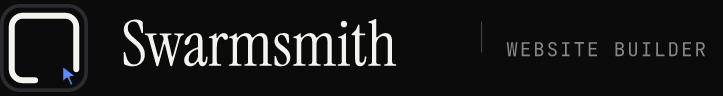
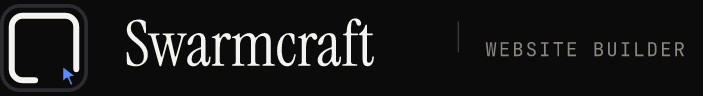
Rename the product: swarmsmith → swarmcraft
Chosen from six rendered options: Swarmcraft. The swarm is the nine cursors,
borrowed on purpose and credited; craft says worked by hand rather than
generated, and it is plainer and harder than -smith. Ninewright was the runner-up.

Everything that carried the name carries the new one: the wordmark and every
generated image (logo, favicon, cards, poster), the README masthead and clone
line, the CI badge and issue links, package.json name/repository/homepage/bugs,
index.html title, the in-app wordmark and the two screens that say the name out
loud, the doctor banner, the temp-dir prefixes, and both planning docs.

Two things are deliberate rather than mechanical:

  · the IndexedDB database is renamed too, and src/lib/db.ts copies anything in
    the old swarmsmith database into the new one on first open — once, without
    deleting the original. A rename that silently loses everyone's saved sites
    is not a rename, it is a data loss bug with a commit message.
  · docs/BUILD-PLAN.md had the name as an open question. It is answered there
    now, with the reasoning and the runner-up, instead of being silently updated.

The GitHub repo itself is still named swarm-builder:  returns
403 Resource not accessible by integration, so the token cannot change repo
settings. The rename needs doing in the GitHub UI; all links in the repo already
point at the new name.

diff --git a/src/lib/db.ts b/src/lib/db.ts
@@ -5,7 +5,13 @@
 import { openDB, type IDBPDatabase } from 'idb';
 import type { SiteSpec, SiteKind } from './spec';
 
-const DB_NAME = 'swarmsmith';
+/* The product was called swarmsmith until it was published. Anyone who ran it
+   under that name has their key and their sites in a database with the old name,
+   so the first open copies them across before the new database is used for real.
+   Cheap now, and the alternative is a user opening the app to find every site
+   they built gone. */
+const DB_NAME = 'swarmcraft';
+const LEGACY_DB_NAME = 'swarmsmith';
 const DB_VERSION = 2;
 
 export type ProjectRow = {
@@ -72,10 +78,54 @@ export function storageAvailable(): boolean {
   }
 }
 
+/**
+ * Copy a database written by the old name into the new one, once.
+ *
+ * `indexedDB.databases()` is not in every browser, so this is best-effort: when
+ * it is missing, or the old database does not exist, it does nothing and the app
+ * starts with the new one empty. It never deletes the old database — a rename
+ * should not be able to destroy the only copy of someone's work.
+ */
+async function migrateLegacyDb(): Promise<void> {
+  try {
+    const list = await indexedDB.databases?.();
+    if (!list?.some((d) => d.name === LEGACY_DB_NAME)) return;
+
+    const marker = `${LEGACY_DB_NAME}:migrated`;
+    if (localStorage.getItem(marker)) return;
+
+    const legacy = await new Promise<IDBDatabase>((ok, no) => {
+      const req = indexedDB.open(LEGACY_DB_NAME);
+      req.onsuccess = () => ok(req.result);
+      req.onerror = () => no(req.error);
+    });
+
+    const target = await openDB<Schema>(DB_NAME, DB_VERSION);
+    for (const name of Array.from(legacy.objectStoreNames) as (keyof Schema)[]) {
+      if (!target.objectStoreNames.contains(name)) continue;
+      const rows = await new Promise<unknown[]>((ok, no) => {
+        const req = legacy.transaction(name, 'readonly').objectStore(name).getAll();
+        req.onsuccess = () => ok(req.result);
+        req.onerror = () => no(req.error);
+      });
+      /* `put`, not `add`: if a row already exists in the new database it wins,
+         because it is the one this version of the app has been writing to. */
+      for (const row of rows) await target.put(name, row as never);
+    }
+    legacy.close();
+    target.close();
+    localStorage.setItem(marker, '1');
+  } catch {
+    /* No migration is better than a broken boot. The new database stands. */
+  }
+}
+
 function db() {
   if (!storageAvailable()) return Promise.reject(new StorageUnavailable());
   if (!dbp) {
-    dbp = openDB<Schema>(DB_NAME, DB_VERSION, {
+    dbp = (async () => {
+      await migrateLegacyDb();
+      return openDB<Schema>(DB_NAME, DB_VERSION, {
       upgrade(d) {
         if (!d.objectStoreNames.contains('settings'))
           d.createObjectStore('settings', { keyPath: 'key' });
@@ -89,7 +139,8 @@ function db() {
           store.createIndex('projectId', 'projectId');
         }
       },
-    });
+      });
+    })();
     // a failed open must not poison every later call
     dbp.catch(() => {
       dbp = null;

diff --git a/src/app/screens/KeyScreen.tsx b/src/app/screens/KeyScreen.tsx
@@ -86,7 +86,7 @@ export default function KeyScreen() {
         <p className="eyebrow">Setup</p>
         <h1>{hasKey ? 'Your key is saved' : 'One key, then it works'}</h1>
         <p>
-          Swarmsmith uses your own Google Gemini API key. It is stored in this browser&rsquo;s
+          Swarmcraft uses your own Google Gemini API key. It is stored in this browser&rsquo;s
           IndexedDB and sent only to Google, from this tab. There is no server in between, because
           there is no server at all.
         </p>

diff --git a/src/app/screens/ProjectsScreen.tsx b/src/app/screens/ProjectsScreen.tsx
@@ -58,7 +58,7 @@ export default function ProjectsScreen() {
           <p className="eyebrow">Nothing built yet</p>
           <h1>No sites yet</h1>
           <p>
-            Swarmsmith builds one page at a time. Answer a few questions, choose what to include,
+            Swarmcraft builds one page at a time. Answer a few questions, choose what to include,
             then watch nine cursors build it. Everything stays in this browser.
           </p>
           <div className="row" style={{ gap: 10 }}>

diff --git a/index.html b/index.html
@@ -5,7 +5,7 @@
     <meta name="viewport" content="width=device-width, initial-scale=1.0" />
     <meta name="color-scheme" content="dark" />
     <link rel="icon" type="image/svg+xml" href="/favicon.svg" />
-    <title>swarmsmith</title>
+    <title>swarmcraft</title>
     <meta name="description" content="Build a real website with a swarm of cursors doing the building." />
   </head>
   <body>

diff --git a/src/styles/tokens.css b/src/styles/tokens.css
@@ -1,5 +1,5 @@
 /* ============================================================================
-   swarmsmith — design tokens
+   swarmcraft — design tokens
 
    Doctrine (HANDOFF.md, "The Quiet Doctrine"):
      The chrome is MONOCHROME. Tool-like. Zero decoration.

diff --git a/src/app/App.tsx b/src/app/App.tsx
@@ -58,7 +58,7 @@ export default function App() {
               title="Your sites"
             >
               <Mark />
-              swarmsmith
+              swarmcraft
             </button>
             {showRail && (
             <nav className="stepper">

diff --git a/docs/chrome-extension-field-guide.md b/docs/chrome-extension-field-guide.md
@@ -4,7 +4,7 @@
 
 A working knowledge base for building, shipping, and maintaining a Chrome extension in 2026 — covering the runtime model, the APIs you'll actually use, the failure modes that bite everyone, AI/agent integration, packaging, distribution, and Chrome Web Store review.
 
-> **Scope note.** You said swarm-builder is "an extension on Google." This document assumes that means a **Chrome browser extension** (Manifest V3). If you actually meant a **Google Workspace Add-on** (the kind that appears inside Gmail/Docs/Sheets) or a **Google Docs add-on**, those are a completely different platform built on Apps Script — see [§1.3](#13-what-it-is-not-workspace-add-ons) for how they differ, and tell me so I can write the right guide.
+> **Scope note.** You said swarmcraft is "an extension on Google." This document assumes that means a **Chrome browser extension** (Manifest V3). If you actually meant a **Google Workspace Add-on** (the kind that appears inside Gmail/Docs/Sheets) or a **Google Docs add-on**, those are a completely different platform built on Apps Script — see [§1.3](#13-what-it-is-not-workspace-add-ons) for how they differ, and tell me so I can write the right guide.
 
 ---
 
@@ -29,7 +29,7 @@ A working knowledge base for building, shipping, and maintaining a Chrome extens
 17. [Chrome Web Store: registration → review](#17-chrome-web-store-registration--review)
 18. [Monetization](#18-monetization)
 19. [Performance, cost, and reliability pitfalls](#19-performance-cost-and-reliability-pitfalls)
-20. [A build order for swarm-builder](#20-a-build-order-for-swarm-builder)
+20. [A build order for swarmcraft](#20-a-build-order-for-swarmcraft)
 21. [Glossary](#21-glossary)
 
 ---
@@ -175,7 +175,7 @@ A complete, realistic MV3 manifest:
 ```json
 {
   "manifest_version": 3,
-  "name": "Swarmsmith",
+  "name": "Swarmcraft",
   "version": "1.0.0",
   "description": "Coordinate a swarm of agents on the current page.",
   "minimum_chrome_version": "120",
@@ -185,7 +185,7 @@ A complete, realistic MV3 manifest:
 
   "action": {
     "default_popup": "popup.html",
-    "default_title": "Swarmsmith",
+    "default_title": "Swarmcraft",
     "default_icon": { "16": "icons/16.png", "32": "icons/32.png" }
   },
 
@@ -559,7 +559,7 @@ Mitigations that actually help:
 
 ## 12. Agentic extensions and "swarms"
 
-If swarmsmith means "orchestrate many agents in the browser," this is the section that matters most. MV3 is a *hostile* environment for a naive swarm: the orchestrator can be killed at any moment, and there is one worker, not many loops.
+If swarmcraft means "orchestrate many agents in the browser," this is the section that matters most. MV3 is a *hostile* environment for a naive swarm: the orchestrator can be killed at any moment, and there is one worker, not many loops.
 
 ### 12.1 Reference architecture
 
@@ -636,7 +636,7 @@ Practical notes:
 - **Group tabs per client** so multiple agents don't collide, and clean up on disconnect.
 - **Never auto-grant.** Every tool call that mutates the outside world should be visible in the UI and revocable.
 
-This same bridge shape is how you'd expose swarmsmith to both an in-browser UI *and* external agents.
+This same bridge shape is how you'd expose swarmcraft to both an in-browser UI *and* external agents.
 
 ---
 
@@ -654,7 +654,7 @@ This same bridge shape is how you'd expose swarmsmith to both an in-browser UI *
 
 **Recommendation for a new project in 2026:** **WXT + TypeScript + React** for the side panel. It gives fast HMR, multi-browser output, and doesn't lock you into abstractions you'll fight later. Choose CRXJS instead if you already have a Vite app and want minimal abstraction. Choose Plasmo only if content-script React UI with Shadow DOM isolation is the centerpiece and you're comfortable with a slower-maintained toolchain.
 
-### 14.2 Suggested stack for swarmsmith
+### 14.2 Suggested stack for swarmcraft
 
 ```
 WXT 1.x            build + manifest generation
@@ -755,7 +755,7 @@ You cannot click the toolbar icon (it's browser chrome, not page content). Open 
 
 `manifest.json`:
 ```json
-{ "update_url": "https://cdn.example.com/swarmsmith/updates.xml" }
+{ "update_url": "https://cdn.example.com/swarmcraft/updates.xml" }
 ```
 
 `updates.xml` — served by your server; `appid` must match the extension ID exactly, and `version` must be higher than the installed one:
@@ -763,7 +763,7 @@ You cannot click the toolbar icon (it's browser chrome, not page content). Open 
 <?xml version='1.0' encoding='UTF-8'?>
 <gupdate xmlns='http://www.google.com/update2/response' protocol='2.0'>
   <app appid='aaaaaaaaaaaaaaaaaaaaaaaaaaaaaaaa'>
-    <updatecheck codebase='https://cdn.example.com/swarmsmith/1.0.1.crx' version='1.0.1'/>
+    <updatecheck codebase='https://cdn.example.com/swarmcraft/1.0.1.crx' version='1.0.1'/>
   </app>
 </gupdate>
 ```
@@ -772,7 +772,7 @@ Serve the `.crx` as `Content-Type: application/x-chrome-extension`, support rang
 
 Force-install via policy (`ExtensionInstallForcelist` / `ExtensionSettings`):
 ```
-aaaaaaaaaaaaaaaaaaaaaaaaaaaaaaaa;https://cdn.example.com/swarmsmith/updates.xml
+aaaaaaaaaaaaaaaaaaaaaaaaaaaaaaaa;https://cdn.example.com/swarmcraft/updates.xml
 ```
 
 ### 16.3 Versioning
@@ -891,7 +891,7 @@ This is where most first submissions stall. You must declare, accurately:
 
 ---
 
-## 20. A build order for swarm-builder
+## 20. A build order for swarmcraft
 
 A pragmatic sequence that ships something real early and defers review risk:
 

diff --git a/docs/BUILD-PLAN.md b/docs/BUILD-PLAN.md
@@ -1,4 +1,4 @@
-# swarmsmith — Build Plan
+# swarmcraft — Build Plan
 
 **Status:** planning · **Date:** 2026-11-12 · **Build order:** frontend first
 **Platform:** **a locally-run desktop web app** — not an extension
@@ -185,7 +185,7 @@ A single locally-run app. No browser extension, no store, no background worker.
 
 ### 4.4 Why a local app (and not an extension)
 
-Because there is nothing for it to extend. Swarmsmith never reads the page
+Because there is nothing for it to extend. Swarmcraft never reads the page
 you're browsing, never injects anything, never needs host permissions. It
 generates a site from an interview and builds it on its own canvas. An extension
 would be pure overhead:
@@ -226,10 +226,10 @@ Seven steps. Each is a full screens-worth of spec: layout, states, copy, rules.
 
 ```
 ┌──────────────────────────────────────────────────────────────┐
-│  swarmsmith                                                  │
+│  swarmcraft                                                  │
 │                                                              │
 │  Connect Gemini                                              │
-│  Swarmsmith runs entirely on your machine. It needs one      │
+│  Swarmcraft runs entirely on your machine. It needs one      │
 │  Gemini API key to write your site. Nothing is sent         │
 │  anywhere else.                                              │
 │                                                              │
@@ -248,7 +248,7 @@ Seven steps. Each is a full screens-worth of spec: layout, states, copy, rules.
 └──────────────────────────────────────────────────────────────┘
 ```
 
-- Key stored in **IndexedDB** under `swarmsmith.key`, never in the bundle, never logged.
+- Key stored in **IndexedDB** under `swarmcraft.key`, never in the bundle, never logged.
 - "Test & save" makes one cheap call; reports latency and the resolved model name.
 - Failure states: invalid key · quota exhausted · network · unsupported model. Each with its own message, not a generic error.
 - The trust paragraph is not decoration — it's the single biggest objection to a local app holding a key. Address it on screen one.
@@ -709,7 +709,11 @@ Non-negotiable:
 
 ## 13. Open questions
 
-1. **Name.** `swarmsmith` is the working title. Final?
+1. ~~**Name.**~~ **Answered: `Swarmcraft`.** *Swarm* is the nine cursors, borrowed
+   on purpose from Califa's project and credited in NOTICE; *craft* says worked by
+   hand rather than generated, and is plainer and harder than `-smith`.
+   `Ninewright` was the runner-up. *Nine icons on a ring* was rejected as the
+   stock AI-brand shape.
 2. **Sound.** On by default with a persistable mute (matching the reference), or off by default? My recommendation: **on**, because the audio is a large part of why the reference videos land — and the mute is one click.
 3. **The nine Muses as the cursor labels?** This is the one place the roster becomes visible to a user. Alternative: neutral names (*Builder 1–9*), or no labels. My recommendation: keep the Muses — named cursors are literally what makes the reference look like a design tool.
 

diff --git a/README.md b/README.md
@@ -1,10 +1,10 @@
 <div align="center">
 
-<img src="docs/media/wordmark.svg" alt="Swarmsmith — website builder" height="120">
+<img src="docs/media/wordmark.svg" alt="Swarmcraft — website builder" height="120">
 
 **Write a brief. Nine cursors draw your website. Keep the HTML.**
 
-[![tests](https://github.com/mafk21/swarm-builder/actions/workflows/test.yml/badge.svg)](https://github.com/mafk21/swarm-builder/actions/workflows/test.yml)
+[![tests](https://github.com/mafk21/swarmcraft/actions/workflows/test.yml/badge.svg)](https://github.com/mafk21/swarmcraft/actions/workflows/test.yml)
 [![MIT](https://img.shields.io/badge/licence-MIT-111)](LICENSE)
 [![node](https://img.shields.io/badge/node-22.12%2B-111)](package.json)
 [![no backend](https://img.shields.io/badge/backend-none-111)](#what-it-does-not-do)
@@ -34,8 +34,8 @@ account.
 **1 · Get the code and start it**
 
 ```bash
-git clone https://github.com/mafk21/swarm-builder.git
-cd swarm-builder
+git clone https://github.com/mafk21/swarmcraft.git
+cd swarmcraft
 npm install
 npm run dev
 ```
@@ -80,7 +80,7 @@ The same commands work in PowerShell, Command Prompt or Git Bash.
   dependencies and must install; a corporate proxy blocking npm is the usual reason.
   The tests do not need them.
 - **Something else is broken** — `npm run doctor` prints what this build expects.
-  [Issues](https://github.com/mafk21/swarm-builder/issues) are open.
+  [Issues](https://github.com/mafk21/swarmcraft/issues) are open.
 
 </details>
 

diff --git a/HANDOFF.md b/HANDOFF.md
@@ -2,6 +2,14 @@
 
 Pick this up cold. Everything you need is in this file and the code.
 
+## Renamed
+
+`swarmsmith` → **`swarmcraft`** before publication. The IndexedDB database was
+renamed with it, and `src/lib/db.ts` copies any data out of the old `swarmsmith`
+database on first open, once, without deleting it — a rename must not cost anyone
+the sites they built. The old key/value names are the only place the old name
+survives, on purpose.
+
 ## What it is
 
 A local app that builds a real website. You answer a few questions, pick a kind and
